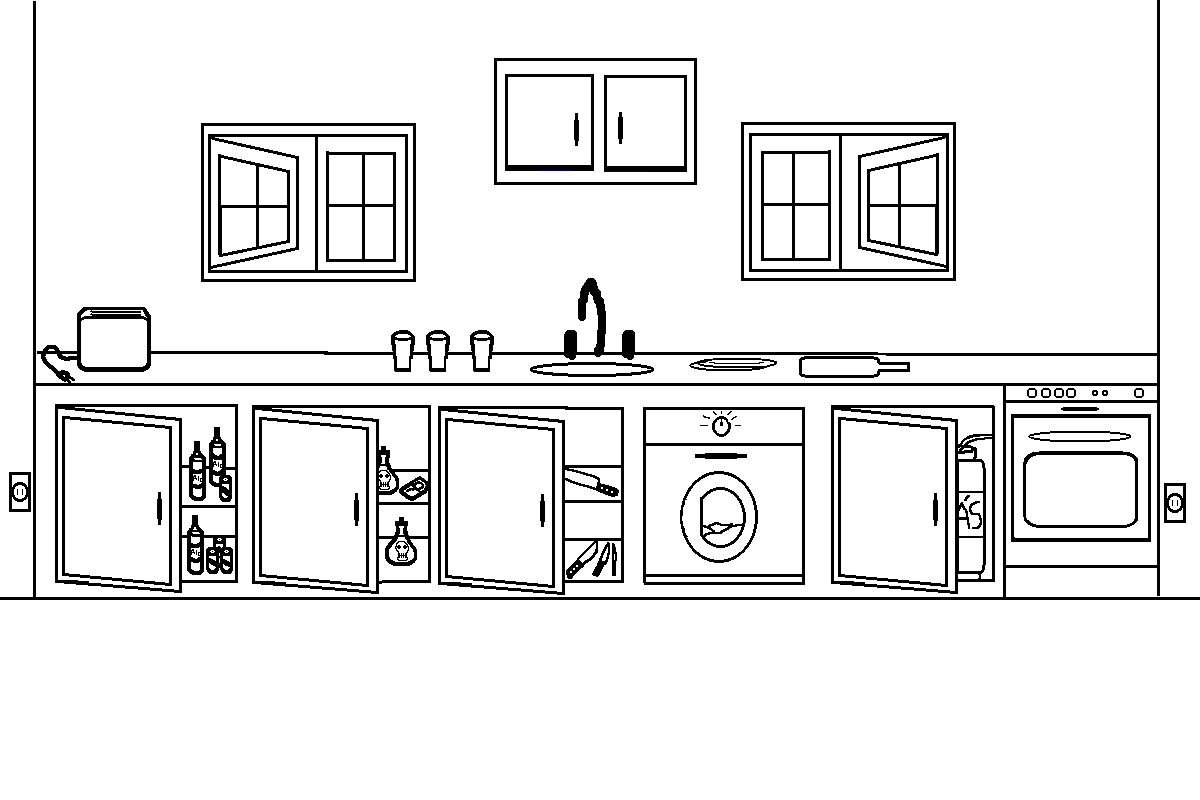
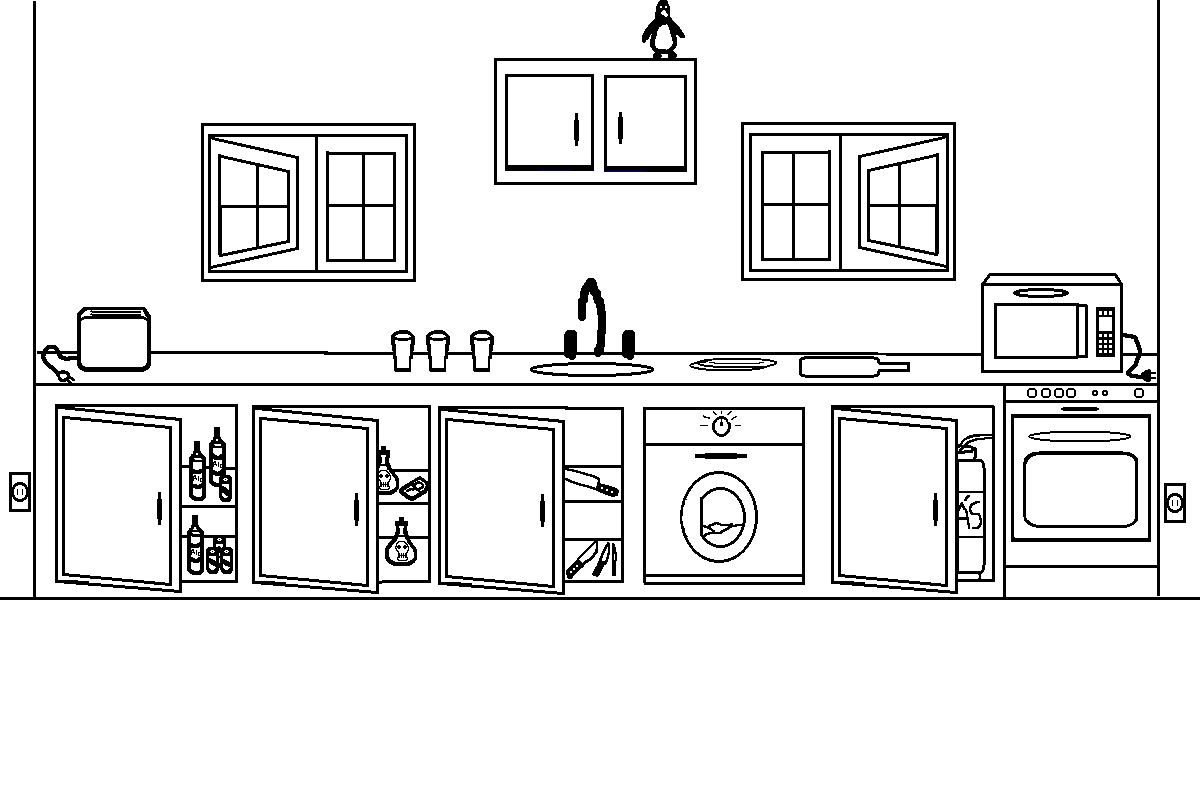
Faz dificuldade 2, e mexe nas imagens, do jogo don't touch it

Changed region(s): [[0.8017, 0.3438, 0.9558, 0.4688], [0.5242, 0.0, 0.5858, 0.0625]]

diff --git a/donttouchit.cpp b/donttouchit.cpp
@@ -197,6 +197,18 @@ int loadMediaBoy(LTexture* s)
     return success;
 }
 
+int loadMediaGirl(LTexture* s)
+{
+    int success = 1;
+
+    if(!(s->imgPath = loadFromFile(s, "imagens/girl.png")) )
+    {
+        printf( "Failed to load boy texture!\n" );
+        success = 0;
+    }
+    return success;
+}
+
 int loadMediaTimeText(LTexture* s)
 {
 	int success = 1;
@@ -315,13 +327,21 @@ void close()
 
 int main( int argc, char* args[] )
 {
-    LTexture gCurrentFoo;
-    gCurrentFoo.mHeight = 0;
-    gCurrentFoo.mWidth = 0;
+    LTexture gCurrentBoy;
+    gCurrentBoy.mHeight = 0;
+    gCurrentBoy.mWidth = 0;
+
+    LTexture gCurrentGirl;
+    gCurrentGirl.mHeight = 0;
+    gCurrentGirl.mWidth = 0;
 
     LTexture gBoy;
     gBoy.mHeight = 0;
     gBoy.mWidth = 0;
+
+    LTexture gGirl;
+    gGirl.mHeight = 0;
+    gGirl.mWidth = 0;
 
     LTexture gBackground;
     gBackground.mHeight = 0;
@@ -359,6 +379,10 @@ int main( int argc, char* args[] )
     {
         printf( "Failed to load boy media!\n" );
     }
+    if( !loadMediaGirl(&gGirl) )
+    {
+        printf( "Failed to load boy media!\n" );
+    }
     if( !loadMediaTimeText(&gTextTimeTexture) )
     {
         printf( "Failed to load text time media!\n" );
@@ -393,21 +417,32 @@ int main( int argc, char* args[] )
 
         int startGame = 0;
 
-        int place = rand() % 6;
+        int placeB = rand() % 6;
+        int placeG = rand() % 6;
+
+        int gottenChild = 0;
 
         int dificuldade = 0;
 
-        float x1 = 1080;
-        float y1 = 450;
-        float x2 = 664;
-        float y2 = 600;
+        float bx1 ;
+        float by1 = 450;
+        float bx2 = bx1 + 64;
+        float by2 = by1 + 150;
+
+        float gx1;
+        float gy1 = 450;
+        float gx2 = gx1 + 64;
+        float gy2 = gy1 + 150;
 
         int mouseX = 0;
         int mouseY = 0;
 
-        int mouseOver = 0;
+        int mouseOverBoy = 0;
+        int mouseOverGirl = 0;
 
-        gCurrentFoo = gBoy;
+
+        gCurrentBoy = gBoy;
+        gCurrentGirl = gGirl;
 
         float button1x1 = SCREEN_WIDTH / 3.75;
         float button1y1 = SCREEN_HEIGHT / 3.75;
@@ -420,10 +455,11 @@ int main( int argc, char* args[] )
         float button2y2 = button2y1 + 200;
 
         Uint32 oldTime = 0;
-        Uint32 mouseOverTime = 0;
+        Uint32 mouseOverBoyTime = 0;
+        Uint32 mouseOverGirlTime = 0;
         Uint32 currentTime = 0;
         Uint32 countTime = 0;
-        Uint32 endGame = 0;
+        Uint32 endGame = -1000;
         currentTime = SDL_GetTicks();
 
         while( !quit )
@@ -436,7 +472,7 @@ int main( int argc, char* args[] )
                         {
                             quit = 1;
                         }
-                        if(currentTime - endGame > 1000)
+                        if(currentTime - endGame >= 1000)
                         {
                             if (e.type == SDL_MOUSEBUTTONUP)
                             {
@@ -450,6 +486,13 @@ int main( int argc, char* args[] )
                                     startGame = 1;
 
                                     dificuldade = 1;
+
+                                    gottenChild = 1;
+                                    time = -1;
+
+                                    placeB = rand() % 6;
+                                    by1 = 450;
+                                    by2 = by1 + 150;
                                 }
                                 else if(checkMouse(&mouse, button2x1, button2y1, button2x2, button2y2))
                                 {
@@ -458,9 +501,20 @@ int main( int argc, char* args[] )
                                     startGame = 1;
 
                                     dificuldade = 2;
+
+                                    gottenChild = 2;
+                                    time = -1;
+
+                                    placeB = rand() % 6;
+                                    placeG = rand() % 6;
+
+                                    by1 = 450;
+                                    by2 = by1 + 150;
+
+                                    gy1 = 450;
+                                    gy2 = gy1 + 150;
                                 }
 
-                                time = -1;
                             }
                         }
                     }
@@ -491,31 +545,52 @@ int main( int argc, char* args[] )
                     SDL_GetMouseState(&mouseX, &mouseY);
                     mouse.mPosition.x = mouseX;
                     mouse.mPosition.y = mouseY;
-                    if (e.type == SDL_MOUSEBUTTONDOWN && checkMouse(&mouse, x1, y1, x2, y2))
+                    if (e.type == SDL_MOUSEBUTTONDOWN && checkMouse(&mouse, bx1, by1, bx2, by2))
                     {
-                        startGame = 0;
-                        endGame = currentTime;
-                        break;
+                        gottenChild -= 1;
+
+
+                        printf("Click!\n");
+
+                        by1 = 1000;
+                        by2 = 1000;
+
                     }
+                    if (e.type == SDL_MOUSEBUTTONDOWN && checkMouse(&mouse, gx1, gy1, gx2, gy2))
+                    {
+                        gottenChild -= 1;
+
+
+                        printf("Click!\n");
+
+                        gy1 = 1000;
+                        gy2 = 1000;
+
+                    }
+
                 }
 
-                if(checkMouse(&mouse, x1, y1, x2, y2))
+                if(checkMouse(&mouse, bx1, by1, bx2, by2))
                 {
-                    if(mouseOver == 0)
-                    {
-                        mouseOver = 1;
-                        mouseOverTime = oldTime;
-                    }
-                    if( currentTime - mouseOverTime >= 15 )
-                    {
-                        place = rand() % 6;
-                        mouseOver = 0;
-                    }
+                    //if(mouseOverBoy == 0)
+                    //{
+                        //mouseOverBoy = 1;
+                        //mouseOverBoyTime = oldTime;
+                    //}
+                    //if( currentTime - mouseOverBoyTime >= 2 )
+                    //{
+                        placeB = rand() % 6;
+                        if(placeB == placeG)
+                        {
+                            placeB = rand() % 6;
+                        }
+                        //mouseOverBoy = 0;
+                    //}
                 }
-                if(!(checkMouse(&mouse, x1, y1, x2, y2)))
+                if(!(checkMouse(&mouse, bx1, by1, bx2, by2)))
                 {
-                    mouseOverTime = oldTime;
-                    mouseOver = 0;
+                    mouseOverBoyTime = oldTime;
+                    mouseOverBoy = 0;
                 }
 
                 SDL_SetRenderDrawColor( gRenderer, 0xFF, 0xFF, 0xFF, 0xFF );
@@ -523,41 +598,108 @@ int main( int argc, char* args[] )
 
                 render(&gBackground, 0 , 0, NULL, 0, NULL, SDL_FLIP_NONE);
 
-                switch( place )
+                switch( placeB )
                 {
                     case 0:
-                    x1 = 25;
+                    bx1 = 25;
 
                     break;
 
                     case 1:
-                    x1 = 210;
+                    bx1 = 210;
                     break;
 
                     case 2:
-                    x1 = 400;
+                    bx1 = 400;
                     break;
 
                     case 3:
-                    x1 = 600;
+                    bx1 = 600;
                     break;
 
                     case 4:
-                    x1 = 700;
+                    bx1 = 700;
                     break;
 
                     case 5:
-                    x1 = 980;
+                    bx1 = 980;
                     break;
 
                     case 6:
-                    x1 = 1080;
+                    bx1 = 1080;
                     break;
                 }
 
-                x2 = x1 + 64;
+                bx2 = bx1 + 64;
 
-                render(&gCurrentFoo, x1, y1, NULL, 0, NULL, SDL_FLIP_NONE);
+                render(&gCurrentBoy, bx1, by1, NULL, 0, NULL, SDL_FLIP_NONE);
+
+                if(dificuldade == 2)
+                {
+                    if(checkMouse(&mouse, gx1, gy1, gx2, gy2))
+                    {
+                        //if(mouseOverGirl == 0)
+                        //{
+                            //mouseOverGirl = 1;
+                            //mouseOverGirlTime = oldTime;
+                        //}
+                        //if( currentTime - mouseOverGirlTime >= 1 )
+                        //{
+                            placeG = rand() % 6;
+                            if(placeG == placeB)
+                            {
+                                placeG = rand() % 6;
+                            }
+                            //mouseOverGirl = 0;
+                        //}
+                    }
+                    if(!(checkMouse(&mouse, gx1, gy1, gx2, gy2)))
+                    {
+                        mouseOverGirlTime = oldTime;
+                        mouseOverGirl = 0;
+                    }
+
+                    switch( placeG )
+                    {
+                        case 0:
+                        gx1 = 25;
+
+                        break;
+
+                        case 1:
+                        gx1 = 210;
+                        break;
+
+                        case 2:
+                        gx1 = 400;
+                        break;
+
+                        case 3:
+                        gx1 = 600;
+                        break;
+
+                        case 4:
+                        gx1 = 700;
+                        break;
+
+                        case 5:
+                        gx1 = 980;
+                        break;
+
+                        case 6:
+                        gx1 = 1080;
+                        break;
+                    }
+                    gx2 = gx1 + 64;
+
+                    render(&gCurrentGirl, gx1, gy1, NULL, 0, NULL, SDL_FLIP_NONE);
+                }
+
+                if( gottenChild == 0 )
+                {
+                    startGame = 0;
+                    endGame = currentTime;
+                }
 
                 if(currentTime - countTime >= 1000)
                 {
@@ -571,9 +713,6 @@ int main( int argc, char* args[] )
 
                 render(&gTextTimeTexture, (SCREEN_WIDTH - getWidth(&gTextTimeTexture) ) / 2.2 ,( SCREEN_HEIGHT - getHeight(&gTextTimeTexture) ) / 1.05 , NULL, 0, NULL, SDL_FLIP_NONE);
                 render(&gTextTime, (SCREEN_WIDTH - getWidth(&gTextTime) ) / 1.9,( SCREEN_HEIGHT - getHeight(&gTextTime) ) / 1.05, NULL, 0, NULL, SDL_FLIP_NONE);
-
-
-
 
                 SDL_RenderPresent( gRenderer );
 

diff --git a/UPDATE.md b/UPDATE.md
@@ -10,12 +10,18 @@
 * Pensei em um nome pro jogo
 * Altera o nome pointnclick.cpp para donttouchit.cpp
 * Altera pequenos detalhes no rambo.cpp 
+* Fiz a imagem da menina (girl.png)
+* Pensei em como colocar simultaneamente o menino e a menina
+* Fiz um jeito para quando apertar no menino ele some, para que tenha q pegar a menina, e vice-versa
+* Dificuldade 2 pronta
+* Mexe na imagem cozinha.cpp
+* Pinta boy.png e girl.png
 
 ## O que eu vou fazer durante a próxima semana?
-* Colocar mais uma criança no travessura.cpp para dificuldade 2
+* Coloca cor na cozinha
 
 ## Quantas horas de trabalho?
-* 4 horas
+* 8 horas 
 
 =======
 
